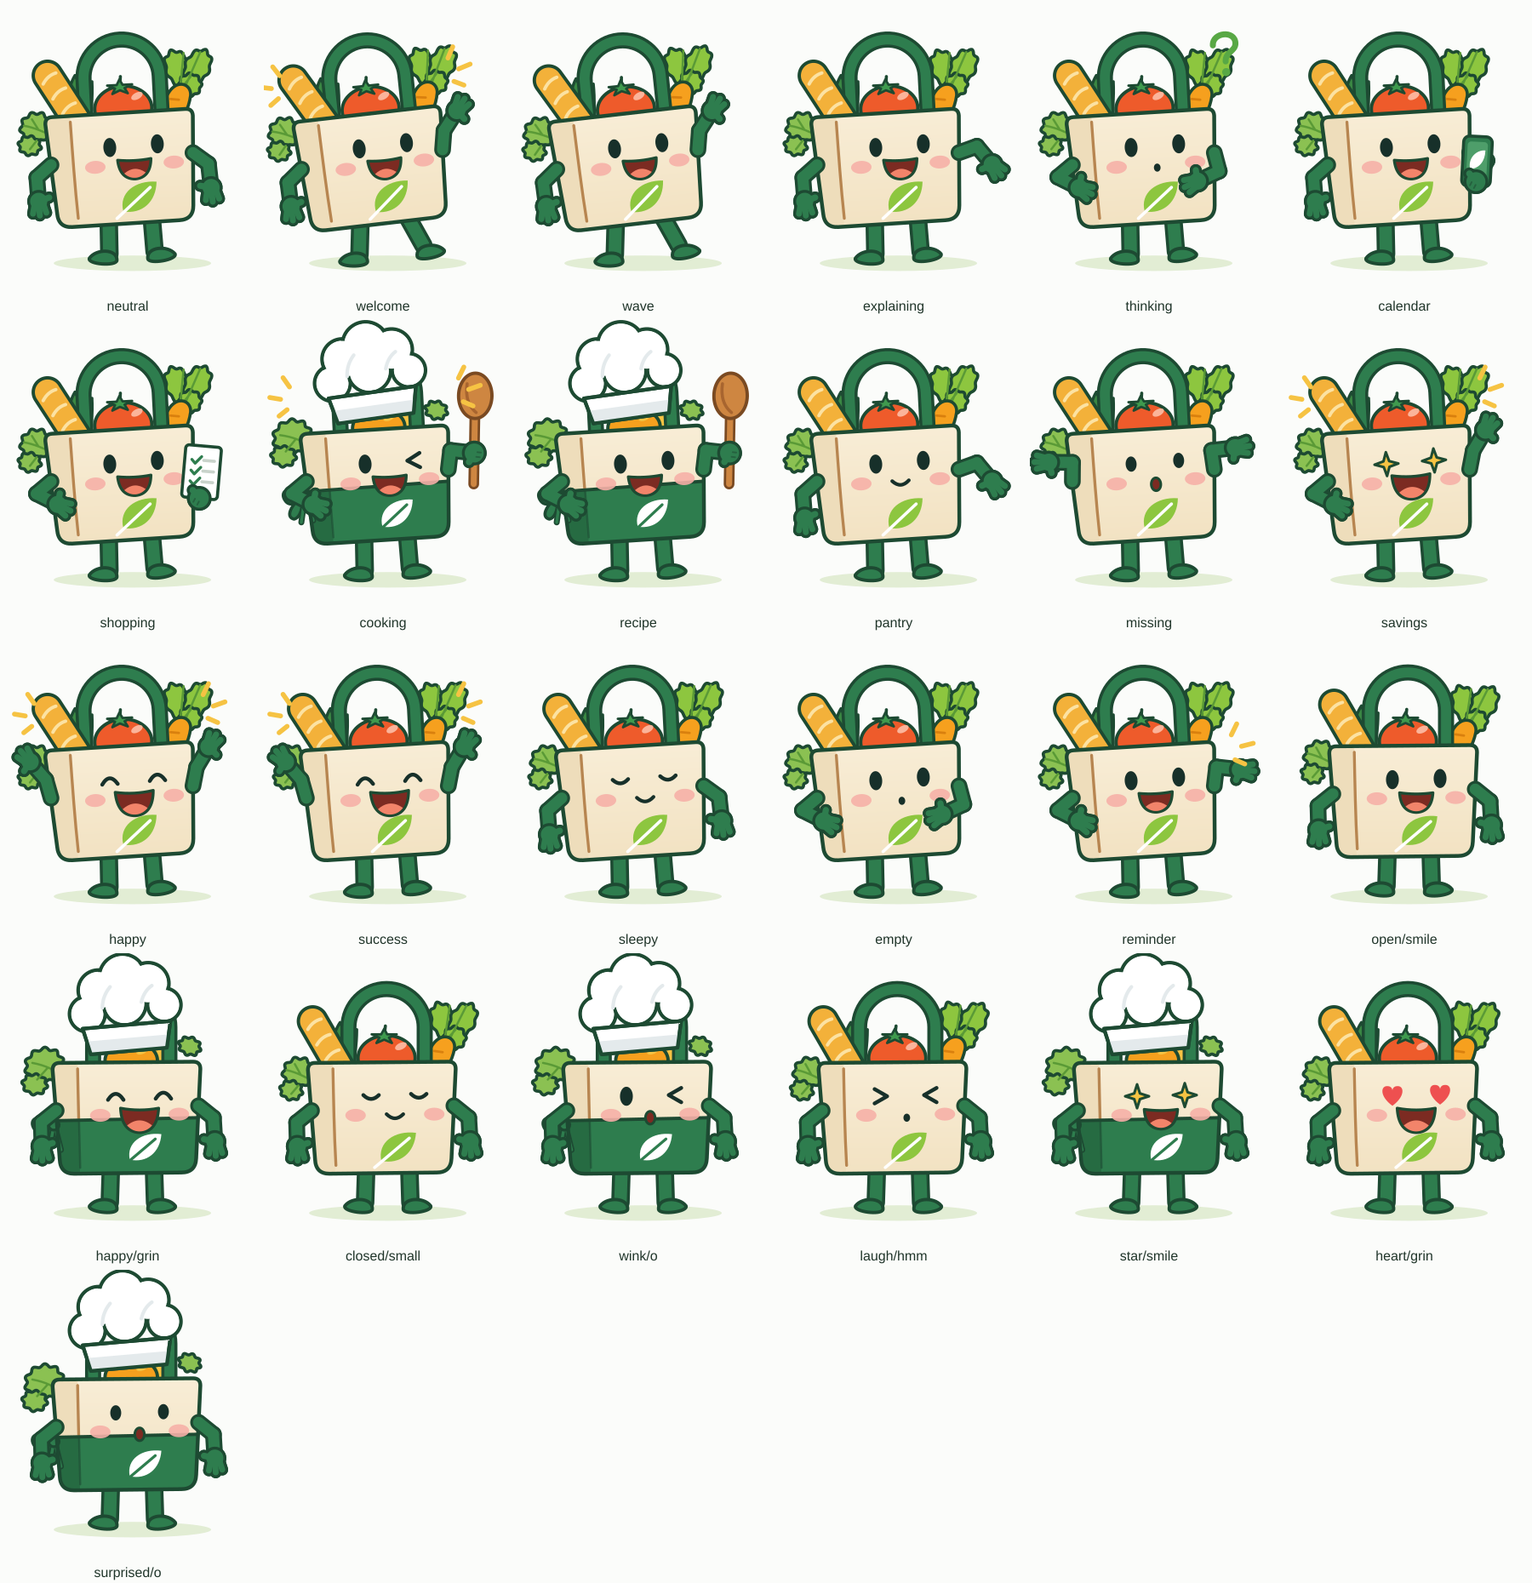
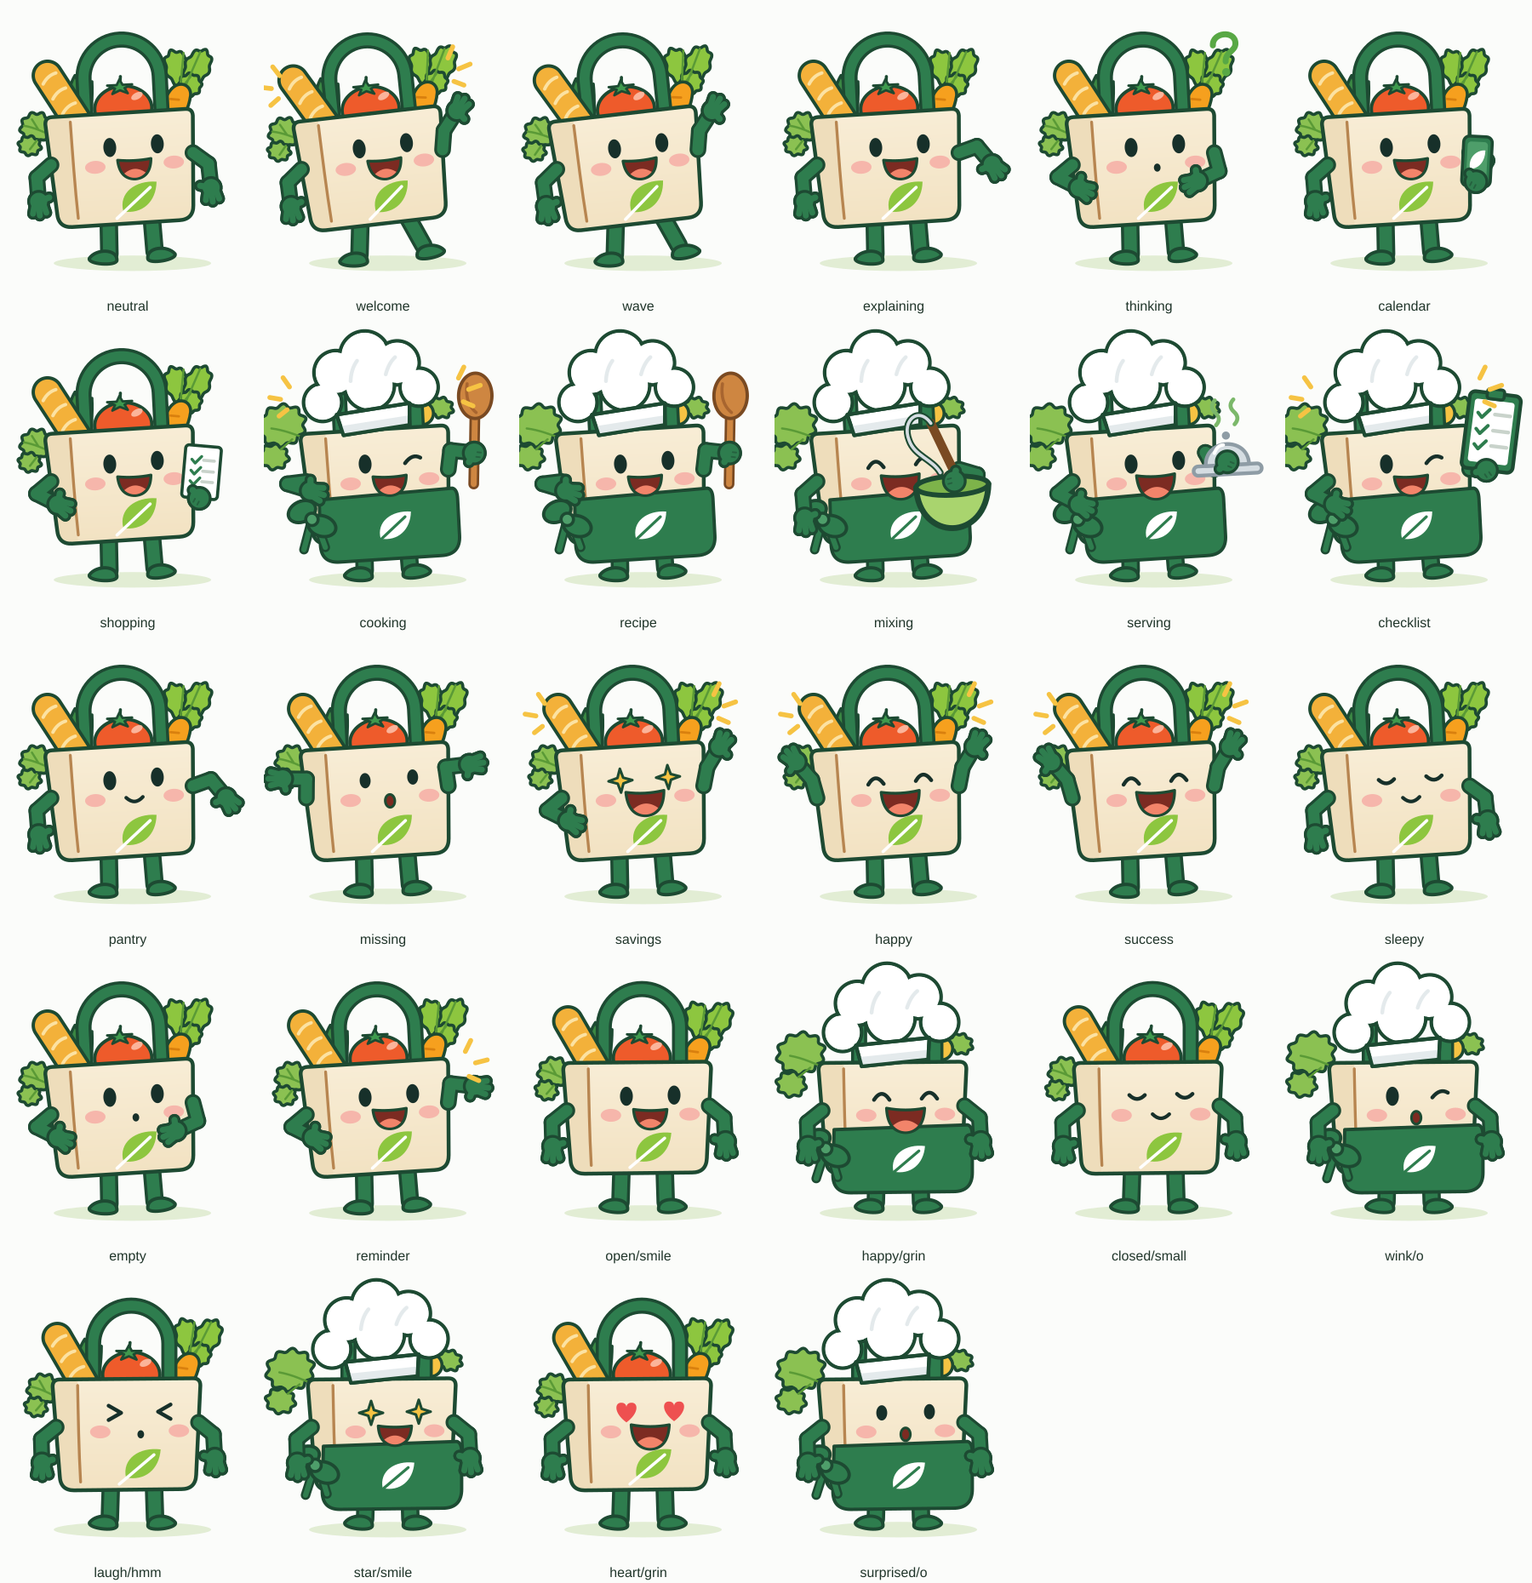
Mina Chef: grembiule come nel foglio e tre usi del foglio
- grembiule: pannello rientrato sul fianco sinistro, gonna che sporge,
  bordo netto, fiocco grande sul bordo; il contorno della borsa sta sotto
  il grembiule (prima sembrava una maglietta)
- cappello con ciuffi grandi e fascia stretta, lattuga e limone riposizionati
- nuove pose: mixing (ciotola con frusta), serving (cloche con vapore),
  checklist (tavoletta verde con spunte) e occhiolino ad arco

Claude-Session: https://claude.ai/code/session_011UmaMWo5J2cXGw4S1xNw8d

diff --git a/spesora/src/ui/mascot/mina2/art.ts b/spesora/src/ui/mascot/mina2/art.ts
@@ -51,12 +51,17 @@ export const C = {
   paper: '#FFFFFF',
   paperLine: '#C9D3CB',
   shadow: '#E2EDD4', // ombra a terra verde chiaro, come nel foglio
+  bowl: '#A9D46E', // ciotola verde chiaro della Mina Chef che mescola
+  bowlDark: '#7DB34A',
+  steel: '#D5DDE2', // cloche e vassoio
+  steelDark: '#8E9CA5',
+  steam: '#7BB86A',
 } as const;
 
 export type Variant = 'classic' | 'chef';
 export type Eyes = 'open' | 'happy' | 'closed' | 'wink' | 'laugh' | 'star' | 'heart' | 'surprised';
 export type Mouth = 'smile' | 'grin' | 'small' | 'o' | 'hmm';
-export type Prop = 'none' | 'spoon' | 'phone' | 'list' | 'clipboard';
+export type Prop = 'none' | 'spoon' | 'phone' | 'list' | 'clipboard' | 'bowl' | 'cloche';
 export type Emote = 'question' | 'sparkles' | 'hearts' | 'bang';
 export type Legs = 'stand' | 'walk';
 export type Side = 'L' | 'R';
@@ -120,13 +125,13 @@ const HANDLE = 'M71,88 L71,50 A32,32 0 0 1 135,50 L135,88';
 function veggiesBack(variant: Variant): string {
   const vein = (d: string, color: string = C.leafDark) => `<path d="${d}" stroke="${color}" stroke-width="1.8" fill="none" stroke-linecap="round"/>`;
   if (variant === 'chef') {
-    // nel foglio di Mina Chef: lattuga grande a sinistra, frutti gialli e arancio sotto il cappello
+    // nel foglio di Mina Chef: lattuga grande che esce dal lato sinistro, limone che sbuca a destra sotto il cappello
     return (
-      frilly(30, 82, 17, 15, -18, 10, 0.16, C.lettuce) +
-      frilly(22, 98, 11, 9, 10, 8, 0.18, C.lettuce) +
-      vein('M47,92 C39,86 31,82 20,80 M33,84 L24,94') +
-      frilly(152, 66, 10, 8, 20, 8, 0.2, C.lettuce) +
-      `<circle cx="128" cy="74" r="10" fill="${C.lemon}" ${sw(2.6)}/>`
+      frilly(22, 72, 21, 18, -14, 10, 0.16, C.lettuce) +
+      frilly(14, 98, 13, 11, 12, 8, 0.18, C.lettuce) +
+      vein('M42,84 C32,80 24,76 13,74 M30,84 L20,92') +
+      frilly(156, 64, 11, 9, 20, 8, 0.2, C.lettuce) +
+      `<circle cx="140" cy="68" r="9.5" fill="${C.lemon}" ${sw(2.6)}/>`
     );
   }
   return (
@@ -189,23 +194,27 @@ function panelPart(variant: Variant): string {
   return panel + leaf;
 }
 
+/**
+ * Grembiule come nel foglio: un pannello a metà corpo che parte un po' dentro il fianco sinistro (si vede il lato
+ * ivorio della borsa sotto il fiocco), con una gonna che sporge in basso e a destra oltre il profilo della borsa,
+ * e un bordo superiore netto. Non segue il contorno della borsa: per questo non sembra una maglietta.
+ */
 function apronPart(): string {
+  const apron = 'M50,136 L162,132 Q166,133 166,141 L166,172 Q166,188 150,188 L64,189 Q49,189 49,174 Z';
   return (
-    `<path d="M40.4,128.5 L159.1,126 L157.5,160 Q157,172 145,172 L55,173 Q43.5,173 43,161 Z" fill="${C.green}"/>` +
-    `<path d="M40.4,128.5 L59.2,128.1 L60,173 L55,173 Q43.5,173 43,161 Z" fill="${C.greenDeep}"/>` +
-    `<path d="M59.2,129 L60.2,168" stroke="${C.line}" stroke-width="1.8" fill="none" stroke-linecap="round" opacity="0.6"/>` +
-    `<path d="M40.4,128.5 L159.1,126" ${sw(2.8)} fill="none"/>` +
-    // foglia bianca con venatura verde
-    `<g transform="translate(114 151) scale(1.02)">` +
+    `<path d="${apron}" fill="${C.green}"/>` +
+    `<path d="${apron}" fill="none" ${sw(2.8)}/>` +
+    // foglia bianca con venatura verde, al centro del grembiule
+    `<g transform="translate(112 161) scale(1.02)">` +
     `<path d="M-12,10 C-15,-4 -2,-13 14,-11 C13,4 2,13 -12,10 Z" fill="${C.white}"/>` +
     `<path d="M-17,15 Q-4,4 9,-7" stroke="${C.green}" stroke-width="2.3" fill="none" stroke-linecap="round"/>` +
     `</g>` +
-    // fiocco sul fianco sinistro
-    `<path d="M37,131 C24,121 16,128 22,136 C26,141 34,137 37,131 Z" fill="${C.green}" ${sw(2.6)}/>` +
-    `<path d="M37,131 C25,140 21,149 28,151 C34,150 36,140 37,131 Z" fill="${C.green}" ${sw(2.6)}/>` +
-    `<path d="M38,133 L34,154 M39,133 L44,153" ${sw(5)} fill="none"/>` +
-    `<path d="M38,133 L34,154 M39,133 L44,153" stroke="${C.green}" stroke-width="2.4" fill="none" stroke-linecap="round"/>` +
-    `<circle cx="38" cy="132" r="4.4" fill="${C.green}" ${sw(2.4)}/>`
+    // fiocco sul bordo sinistro del grembiule: due anse grandi, nodo e code che scendono (la mano lo tiene dal nodo)
+    `<path d="M42,155 L35,177 M47,156 L53,176" stroke="${C.line}" stroke-width="8" stroke-linecap="round" fill="none"/>` +
+    `<path d="M42,155 L35,177 M47,156 L53,176" stroke="${C.green}" stroke-width="4.4" stroke-linecap="round" fill="none"/>` +
+    `<ellipse cx="35" cy="145" rx="12" ry="8.6" transform="rotate(-22 35 145)" fill="${C.green}" ${sw(2.8)}/>` +
+    `<ellipse cx="51" cy="158" rx="12" ry="8.6" transform="rotate(20 51 158)" fill="${C.green}" ${sw(2.8)}/>` +
+    `<circle cx="43" cy="152" r="5.2" fill="${C.greenLight}" ${sw(2.6)}/>`
   );
 }
 
@@ -219,36 +228,40 @@ export function bodyPart(variant: Variant): string {
     handlePart() +
     veggiesFront(variant) +
     panelPart(variant) +
-    (variant === 'chef' ? apronPart() : '') +
+    // Mina Chef: il contorno della borsa sta sotto il grembiule, che ha il suo bordo (altrimenti sembra una maglietta)
+    (variant === 'chef' ? `<path d="${BOX}" fill="none" ${sw(LW)}/>` + apronPart() : '') +
     `<ellipse cx="${CHEEK_L.x}" cy="${CHEEK_L.y}" rx="8.6" ry="5.4" fill="${C.cheek}" opacity="0.9"/>` +
     `<ellipse cx="${CHEEK_R.x}" cy="${CHEEK_R.y}" rx="8.6" ry="5.4" fill="${C.cheek}" opacity="0.9"/>` +
-    `<path d="${BOX}" fill="none" ${sw(LW)}/>`
+    (variant === 'chef' ? '' : `<path d="${BOX}" fill="none" ${sw(LW)}/>`)
   );
 }
 
 /** Perno del cappello (base della fascia): oscilla quando Mina salta. */
-export const HAT_PIVOT = { x: 101, y: 70 } as const;
+export const HAT_PIVOT = { x: 101, y: 80 } as const;
 
-/** Cappello da chef grande e morbido (quasi largo quanto la borsa), poggiato sopra il manico. */
+/**
+ * Cappello da chef come nel foglio: tre ciuffi grandi e morbidi che si allargano oltre la fascia, e una fascia
+ * stretta (circa il 60% della larghezza dei ciuffi) appoggiata sul bordo della borsa, che nasconde il manico.
+ */
 export function hatPart(): string {
   return (
-    `<g transform="rotate(-5 101 70)">` +
+    `<g transform="rotate(-6 101 80)">` +
     puffs(
       [
-        [69, 36, 15],
-        [80, 17, 17],
-        [101, 8, 19.5],
-        [122, 15, 17.5],
-        [134, 34, 14],
-        [101, 30, 18],
+        [60, 50, 16],
+        [75, 27, 18.5],
+        [101, 17, 21],
+        [127, 27, 18.5],
+        [142, 50, 16],
+        [101, 42, 21],
       ],
       C.white,
       3,
     ) +
-    `<path d="M82,32 Q83,22 90,15 M115,30 Q118,21 125,17" stroke="${C.hatShade}" stroke-width="3" fill="none" stroke-linecap="round"/>` +
-    `<path d="M64,48 L138,48 L133,70 L69,70 Z" fill="${C.white}" ${sw(3)}/>` +
-    `<path d="M66.5,59 L135.5,59 L133,70 L69,70 Z" fill="${C.hatShade}"/>` +
-    `<path d="M64,48 L138,48 L133,70 L69,70 Z" fill="none" ${sw(3)}/>` +
+    `<path d="M86,36 Q88,26 94,20 M116,35 Q120,26 126,22" stroke="${C.hatShade}" stroke-width="3.2" fill="none" stroke-linecap="round"/>` +
+    `<path d="M70,62 L132,62 L129,80 L73,80 Z" fill="${C.white}" ${sw(3)}/>` +
+    `<path d="M71.5,72 L130.5,72 L129,80 L73,80 Z" fill="${C.hatShade}"/>` +
+    `<path d="M70,62 L132,62 L129,80 L73,80 Z" fill="none" ${sw(3)}/>` +
     `</g>`
   );
 }
@@ -275,7 +288,7 @@ function eye(kind: Eyes, x: number, y: number, side: Side): string {
     case 'closed':
       return `<path d="M${x - 6.5},${y - 1} Q${x},${y + 5.5} ${x + 6.5},${y - 1}" ${s}/>`;
     case 'wink':
-      return side === 'L' ? eye('open', x, y, side) : `<path d="M${x + 6},${y - 6} L${x - 4.5},${y} L${x + 6},${y + 6}" ${s}/>`;
+      return side === 'L' ? eye('open', x, y, side) : `<path d="M${x - 6.5},${y + 2} Q${x},${y - 6} ${x + 6.5},${y - 2}" ${s}/>`;
     case 'laugh':
       return side === 'L' ? `<path d="M${x - 6},${y - 6} L${x + 4.5},${y} L${x - 6},${y + 6}" ${s}/>` : `<path d="M${x + 6},${y - 6} L${x - 4.5},${y} L${x + 6},${y + 6}" ${s}/>`;
     case 'star': {
@@ -399,16 +412,46 @@ export function propPart(prop: Prop, hx: number, hy: number, rot: number): strin
     case 'list':
     case 'clipboard': {
       const board = prop === 'clipboard';
+      const bw = board ? 36 : 30;
+      const bh = board ? 54 : 44;
+      const x0 = hx - bw / 2;
+      const y0 = hy - bh;
       const tick = (yy: number) =>
-        `<path d="M${hx - 9},${yy} l3,3 l5,-6" stroke="${C.green}" stroke-width="2.4" fill="none" stroke-linecap="round" stroke-linejoin="round"/><path d="M${hx + 1},${yy} L${hx + 10},${yy}" stroke="${C.paperLine}" stroke-width="2.6" stroke-linecap="round"/>`;
+        `<path d="M${hx - bw * 0.3},${yy} l3,3 l5,-6" stroke="${C.green}" stroke-width="2.4" fill="none" stroke-linecap="round" stroke-linejoin="round"/><path d="M${hx + bw * 0.03},${yy} L${hx + bw * 0.33},${yy}" stroke="${C.paperLine}" stroke-width="2.6" stroke-linecap="round"/>`;
+      const k = board ? 1.2 : 1;
       return g(
-        `<rect x="${hx - 15}" y="${hy - 44}" width="30" height="44" rx="${board ? 4 : 3}" fill="${board ? C.green : C.paper}" ${sw(2.6)}/>` +
-          (board ? `<rect x="${hx - 11}" y="${hy - 39}" width="22" height="34" rx="2" fill="${C.paper}"/><rect x="${hx - 6}" y="${hy - 48}" width="12" height="7" rx="2" fill="${C.green}" ${sw(2.2)}/>` : '') +
-          tick(hy - 32) +
-          tick(hy - 23) +
-          tick(hy - 14),
+        `<g transform="translate(${hx} ${hy}) scale(${k}) translate(${-hx} ${-hy})">` +
+        `<rect x="${x0}" y="${y0}" width="${bw}" height="${bh}" rx="${board ? 4 : 3}" fill="${board ? C.green : C.paper}" ${sw(2.6)}/>` +
+          (board ? `<rect x="${x0 + 4}" y="${y0 + 5}" width="${bw - 8}" height="${bh - 10}" rx="2" fill="${C.paper}"/><rect x="${hx - 6}" y="${y0 - 3}" width="12" height="7" rx="2" fill="${C.green}" ${sw(2.2)}/>` : '') +
+          tick(y0 + bh * 0.27) +
+          tick(y0 + bh * 0.48) +
+          tick(y0 + bh * 0.68) +
+        `</g>`,
       );
     }
+    case 'bowl':
+      // ciotola verde chiaro tenuta dal bordo, frusta infilata dentro (il manico esce in alto a sinistra), in scala come nel foglio
+      return g(
+        `<g transform="translate(${hx} ${hy}) scale(1.9) translate(${-hx} ${-hy})">` +
+          `<path d="M${hx - 17},${hy + 2} C${hx - 17},${hy + 26} ${hx + 13},${hy + 28} ${hx + 15},${hy + 2} Z" fill="${C.bowl}" ${sw(2.6)}/>` +
+          `<ellipse cx="${hx - 1}" cy="${hy + 2}" rx="16" ry="4.2" fill="${C.bowlDark}" ${sw(2.2)}/>` +
+          `<path d="M${hx + 1},${hy - 2} L${hx - 9},${hy - 26}" stroke="${C.spoonLine}" stroke-width="4" stroke-linecap="round"/>` +
+          `<path d="M${hx - 9},${hy - 26} C${hx - 14},${hy - 34} ${hx - 22},${hy - 28} ${hx - 19},${hy - 19} C${hx - 17},${hy - 12} ${hx - 9},${hy - 10} ${hx - 6},${hy - 4}" stroke="${C.line}" stroke-width="3" fill="none" stroke-linecap="round"/>` +
+          `<path d="M${hx - 9},${hy - 26} C${hx - 14},${hy - 34} ${hx - 22},${hy - 28} ${hx - 19},${hy - 19} C${hx - 17},${hy - 12} ${hx - 9},${hy - 10} ${hx - 6},${hy - 4}" stroke="${C.steel}" stroke-width="1.4" fill="none" stroke-linecap="round"/>` +
+        `</g>`,
+      );
+    case 'cloche':
+      // cloche d'argento su vassoio, con il vapore che sale: in scala come nel foglio, tenuta dal vassoio
+      return g(
+        `<g transform="translate(${hx} ${hy}) scale(1.3) translate(${-hx} ${-hy})">` +
+          `<rect x="${hx - 22}" y="${hy + 2}" width="44" height="6" rx="3" fill="${C.steel}" ${sw(2.4, C.steelDark)}/>` +
+          `<path d="M${hx - 14},${hy + 2} C${hx - 14},${hy - 16} ${hx + 14},${hy - 16} ${hx + 14},${hy + 2} Z" fill="${C.steel}" ${sw(2.4, C.steelDark)}/>` +
+          `<path d="M${hx - 8},${hy - 6} Q${hx - 6},${hy - 11} ${hx - 2},${hy - 11}" stroke="${C.white}" stroke-width="2.2" fill="none" stroke-linecap="round"/>` +
+          `<circle cx="${hx}" cy="${hy - 17}" r="2.6" fill="${C.steelDark}"/>` +
+          `<path d="M${hx - 6},${hy - 24} q 4,-4 0,-8 q -4,-4 0,-8" stroke="${C.steam}" stroke-width="2.6" fill="none" stroke-linecap="round"/>` +
+          `<path d="M${hx + 6},${hy - 24} q 4,-4 0,-8 q -4,-4 0,-8" stroke="${C.steam}" stroke-width="2.6" fill="none" stroke-linecap="round"/>` +
+        `</g>`,
+      );
     default:
       return '';
   }

diff --git a/spesora/src/ui/mascot/mina2/poses.ts b/spesora/src/ui/mascot/mina2/poses.ts
@@ -16,6 +16,14 @@ export const ARM = {
   holdR: armTo('R', 165, 141),
   upL: armTo('L', 24, 106),
   upR: armTo('R', 175, 102),
+  // Mina Chef: la mano sinistra tiene il fiocco del grembiule dal nodo
+  chefBowL: armTo('L', 40, 130),
+  // ciotola tenuta dal bordo, frusta dentro (mano destra in basso a destra)
+  bowlR: armTo('R', 158, 128),
+  // cloche alzata sul vassoio, a altezza delle spalle
+  clocheR: armTo('R', 168, 112),
+  // checklist tenuta a destra, come nel foglio
+  checkR: armTo('R', 172, 118),
 } as const satisfies Record<string, ArmPose>;
 
 /** Pose pubbliche della mascotte. I nomi delle pose precedenti restano validi (stesse schermate, nuovo personaggio). */
@@ -29,6 +37,9 @@ export const MINA_POSES = [
   'shopping',
   'cooking',
   'recipe',
+  'mixing',
+  'serving',
+  'checklist',
   'pantry',
   'missing',
   'savings',
@@ -86,8 +97,12 @@ export const POSES: Record<MinaPose, PoseSpec> = {
   thinking: { look: classic({ eyes: 'open', mouth: 'hmm', armL: ARM.hipL, armR: ARM.chinR, emote: 'question' }), action: 'think' },
   calendar: { look: classic({ eyes: 'open', mouth: 'smile', armL: ARM.restL, armR: { ...ARM.holdR, prop: 'phone', propTilt: 6 } }), action: 'none' },
   shopping: { look: classic({ eyes: 'open', mouth: 'smile', armL: ARM.hipL, armR: { ...ARM.holdR, prop: 'list', propTilt: 8 } }), action: 'none' },
-  cooking: { look: chef({ eyes: 'wink', mouth: 'smile', armL: ARM.hipL, armR: { ...ARM.raiseR, prop: 'spoon', propTilt: 4 }, emote: 'sparkles' }), action: 'recipe' },
-  recipe: { look: chef({ eyes: 'open', mouth: 'smile', armL: ARM.hipL, armR: { ...ARM.raiseR, prop: 'spoon', propTilt: 4 } }), action: 'recipe' },
+  cooking: { look: chef({ eyes: 'wink', mouth: 'smile', armL: ARM.chefBowL, armR: { ...ARM.raiseR, prop: 'spoon', propTilt: 4 }, emote: 'sparkles' }), action: 'recipe' },
+  recipe: { look: chef({ eyes: 'open', mouth: 'smile', armL: ARM.chefBowL, armR: { ...ARM.raiseR, prop: 'spoon', propTilt: 4 } }), action: 'recipe' },
+  // gli usi di Mina Chef nel foglio: mescola, serve, controlla la lista
+  mixing: { look: chef({ eyes: 'happy', mouth: 'grin', armL: ARM.restL, armR: { ...ARM.bowlR, prop: 'bowl', propTilt: 0 } }), action: 'recipe' },
+  serving: { look: chef({ eyes: 'open', mouth: 'grin', armL: ARM.hipL, armR: { ...ARM.clocheR, prop: 'cloche', propTilt: 0 } }), action: 'recipe' },
+  checklist: { look: chef({ eyes: 'wink', mouth: 'smile', armL: ARM.hipL, armR: { ...ARM.checkR, prop: 'clipboard', propTilt: 10 }, emote: 'sparkles' }), action: 'remind' },
   pantry: { look: classic({ eyes: 'open', mouth: 'small', armL: ARM.restL, armR: ARM.openR }), action: 'none' },
   missing: { look: classic({ eyes: 'surprised', mouth: 'o', armL: ARM.upL, armR: ARM.upR }), action: 'none' },
   savings: { look: classic({ eyes: 'star', mouth: 'grin', armL: ARM.hipL, armR: ARM.cheerR, emote: 'sparkles' }), action: 'happy' },

diff --git a/spesora/src/test/mina2.test.ts b/spesora/src/test/mina2.test.ts
@@ -19,7 +19,7 @@ function hand(side: Side, out: number, bend: number) {
 
 describe('Mina 2.0 — la borsetta della spesa', () => {
   it('ogni posa è un SVG valido e chiuso, con l’identità fissa della borsa', () => {
-    expect(MINA_POSES).toHaveLength(17);
+    expect(MINA_POSES).toHaveLength(20);
     for (const p of MINA_POSES) {
       const s = minaStaticSvg(POSES[p].look);
       expect(s.startsWith('<svg')).toBe(true);
@@ -43,7 +43,7 @@ describe('Mina 2.0 — la borsetta della spesa', () => {
   });
 
   it('Mina Chef (cappello e grembiule) solo nelle pose di cucina e ricette', () => {
-    expect(CHEF_POSES.sort()).toEqual(['cooking', 'recipe']);
+    expect(CHEF_POSES.sort()).toEqual(['checklist', 'cooking', 'mixing', 'recipe', 'serving']);
     for (const p of MINA_POSES) {
       const s = minaStaticSvg(POSES[p].look);
       const hasHat = s.includes(C.hatShade);

diff --git a/spesora/docs/MASCOT.md b/spesora/docs/MASCOT.md
@@ -19,7 +19,7 @@ Riferimento approvato: `docs/restyling/riferimenti/mina2_foglio_approvato.webp`.
 
 ### Mina Chef
 
-È la stessa Mina con **cappello da chef bianco, grembiule verde** (con la foglia bianca e il fiocco sul fianco) e **cucchiaio di legno**. Si usa **solo** per ricette, preparazione e consigli di cucina. Un test (`src/test/mina2.test.ts`) verifica che cappello e grembiule compaiano soltanto nelle pose `cooking` e `recipe`.
+È la stessa Mina con **cappello da chef bianco, grembiule verde** (con la foglia bianca e il fiocco sul fianco) e **cucchiaio di legno**. Si usa **solo** per ricette, preparazione e consigli di cucina. Un test (`src/test/mina2.test.ts`) verifica che cappello e grembiule compaiano soltanto nelle pose di Mina Chef.
 
 ## Fedeltà al riferimento
 
@@ -32,7 +32,8 @@ Il disegno è ricalcato sul foglio approvato, misura per misura (confronto affia
 - **foglia** verde chiaro **senza contorno**, con una sola venatura bianca curva che esce come picciolo;
 - **braccia e gambe corte e spesse**, **mani a guanto con tre dita e pollice** (a pugno quando tengono un oggetto), scarponcini arrotondati;
 - **ombra a terra verde chiaro**;
-- Mina Chef: **cappello grande e morbido** (quasi largo quanto la borsa) inclinato, che lascia vedere il manico sotto la fascia; lattuga grande e frutti gialli e arancio; **grembiule** con foglia bianca e **fiocco** sul fianco; **grande cucchiaio di legno** con bordo marrone.
+- Mina Chef: **cappello grande e morbido** (tre ciuffi che si allargano oltre una fascia stretta, appoggiata sul bordo della borsa); lattuga grande a sinistra e limone che sbuca a destra; **grembiule** come nel foglio: un pannello a metà corpo che parte un po' dentro il fianco sinistro (si vede il lato ivorio sotto il fiocco), con una **gonna che sporge** in basso e a destra oltre il profilo della borsa, un bordo superiore netto, la **foglia bianca** al centro e un **fiocco grande** sul bordo sinistro con anse e code che scendono; **grande cucchiaio di legno** con bordo marrone. Il contorno della borsa sta sotto il grembiule, altrimenti sembrerebbe una maglietta.
+- Mina Chef negli usi del foglio: **mescola** una ciotola verde chiaro con la frusta (`mixing`), **serve** una cloche d'argento con il vapore (`serving`), **controlla** una checklist verde (`checklist`), oltre a `cooking` e `recipe` con il cucchiaio.
 
 Differenze che restano, volute: il foglio ha una grana da acquerello che un disegno vettoriale per l'app non riproduce (colori pieni con una leggera sfumatura sul fronte); nel foglio la borsa di Mina Chef è un po' più alta di quella di Mina 2.0, qui è la stessa borsa per tenere coerenti le animazioni.
 
